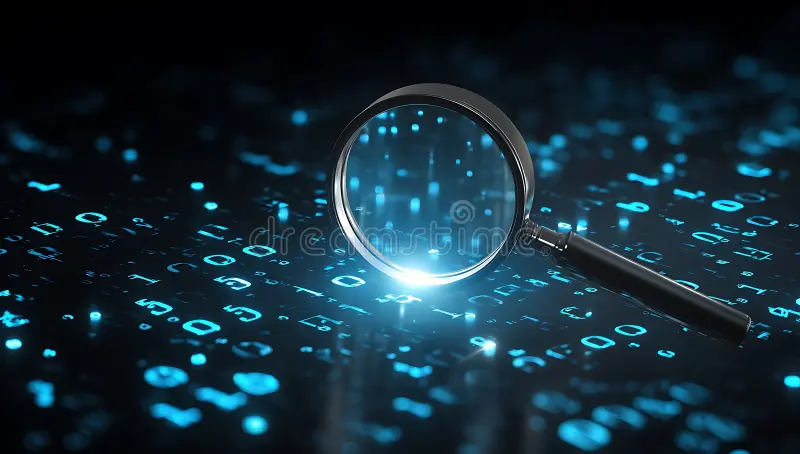
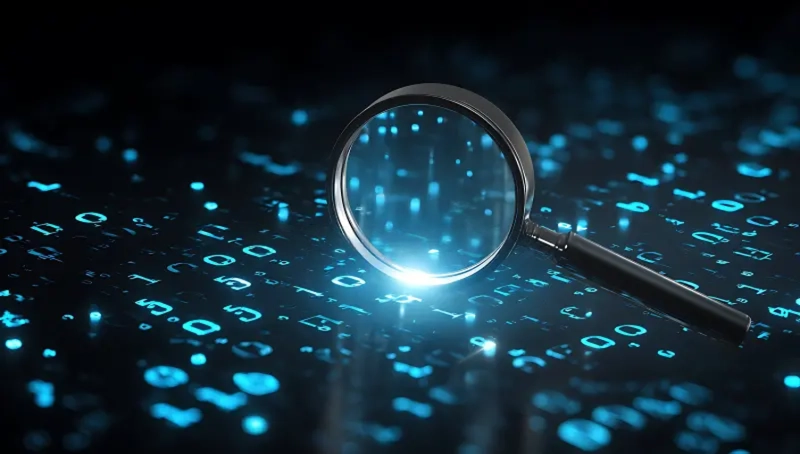
Merge pull request #1303 from DavidMaDNHS/main
New Update to CPTGuide

Pull request: New Update to CPTGuide
Mr. Mort, I have changed C2 level of the guide to make it an active learning guide with real code runners.

Changed region(s): [[0.3125, 0.4317, 0.6875, 0.5859], [0.0938, 0.4626, 0.125, 0.4934]]

diff --git a/hacks/cpt/C2-CPT.md b/hacks/cpt/C2-CPT.md
@@ -2,7 +2,7 @@
 layout: post
 microblog: True
 title: CPT Project Layout Builder
-description: A structured AP CSP CPT drafting tool for manually building components.
+description: A structured AP CSP CPT drafting tool to learn the foundations and building required components.
 author: David M, Sloane S
 permalink: /cpt/2
 breadcrumb: True
@@ -122,50 +122,106 @@ button.clear { background: #dc3545; color: #fff; }
 
   <div class="section">
     <h3>Full Program</h3>
-    {% include code-runner.html
-       runner_id="full_program_runner"
-       language="python"
-       code=""
-    %}
+    <p>This area can contain a full program combining the component examples below. For now, use the individual component boxes to learn and experiment.</p>
   </div>
 
   <div class="section">
     <h3>CPT Components</h3>
+    <p>Use the sections below to learn each CPT component. Each section explains the concept, gives a short learning tip, and includes an editable example you can run in your browser.</p>
 
-    <label for="inputField">Input</label>
-    {% include code-runner.html
-       runner_id="input_runner"
-       language="python"
-       code=""
-    %}
+    <div class="section" style="background:#0a0a0a;margin-top:12px;">
+      <h4>Input</h4>
+      <p><strong>What it is:</strong> data entered by the user (typing, clicking, selecting).</p>
+      <p><strong>How to learn:</strong> practice reading values from form fields and using them in your program.</p>
+      <label for="input_note">Your notes</label>
+      <textarea id="input_note" placeholder="Describe what 'Input' means..."></textarea>
+      <label>Example (edit &amp; Run)</label>
+      <input id="input_example_field" placeholder="Type something here" style="width:100%;padding:8px;margin-top:6px;border-radius:6px;border:1px solid #444;background:#000;color:#fff;">
+      <textarea id="input_example_code">// Read the value from the textbox and show it
+const v = document.getElementById('input_example_field').value;
+console.log('You entered:', v);
+</textarea>
+      <div>
+        <button onclick="runExample('input')">Run</button>
+        <pre id="input_output" class="output-content" style="padding:10px;border-radius:6px;border:1px solid #333;min-height:40px;"></pre>
+      </div>
+    </div>
 
-    <label for="outputField">Output</label>
-    {% include code-runner.html
-       runner_id="output_runner"
-       language="python"
-       code=""
-    %}
+    <div class="section" style="background:#0a0a0a;margin-top:12px;">
+      <h4>Output</h4>
+      <p><strong>What it is:</strong> results produced by the program (text, images, files).</p>
+      <p><strong>How to learn:</strong> practice formatting and presenting data clearly.</p>
+      <label for="output_note">Your notes</label>
+      <textarea id="output_note" placeholder="Describe what 'Output' means..."></textarea>
+      <label>Example (edit &amp; Run)</label>
+      <textarea id="output_example_code">// Compute a result and display it
+const result = 2 + 3;
+console.log('Result:', result);
+</textarea>
+      <div>
+        <button onclick="runExample('output')">Run</button>
+        <pre id="output_output" class="output-content" style="padding:10px;border-radius:6px;border:1px solid #333;min-height:40px;"></pre>
+      </div>
+    </div>
 
-    <label for="listField">List</label>
-    {% include code-runner.html
-       runner_id="list_runner"
-       language="python"
-       code=""
-    %}
+    <div class="section" style="background:#0a0a0a;margin-top:12px;">
+      <h4>List</h4>
+      <p><strong>What it is:</strong> a collection of items you can store and iterate over.</p>
+      <p><strong>How to learn:</strong> manipulate arrays/collections (add, remove, search, sort).</p>
+      <label for="list_note">Your notes</label>
+      <textarea id="list_note" placeholder="Describe what 'List' means..."></textarea>
+      <label>Example (edit &amp; Run)</label>
+      <textarea id="list_example_code">// Work with a list (array)
+const fruits = ['apple','banana'];
+fruits.push('cherry');
+console.log('Fruits now:', fruits);
+console.log('First item:', fruits[0]);
+</textarea>
+      <div>
+        <button onclick="runExample('list')">Run</button>
+        <pre id="list_output" class="output-content" style="padding:10px;border-radius:6px;border:1px solid #333;min-height:40px;"></pre>
+      </div>
+    </div>
 
-    <label for="procedureField">Procedure</label>
-    {% include code-runner.html
-       runner_id="procedure_runner"
-       language="python"
-       code=""
-    %}
+    <div class="section" style="background:#0a0a0a;margin-top:12px;">
+      <h4>Procedure</h4>
+      <p><strong>What it is:</strong> a reusable function with parameters.</p>
+      <p><strong>How to learn:</strong> write small functions, call them with different inputs, and reuse them.</p>
+      <label for="procedure_note">Your notes</label>
+      <textarea id="procedure_note" placeholder="Describe what 'Procedure' means..."></textarea>
+      <label>Example (edit &amp; Run)</label>
+      <textarea id="procedure_example_code">// Define a procedure (function) and call it
+function greet(name) {
+  return 'Hello, ' + name + '!';
+}
+console.log(greet('Student'));
+</textarea>
+      <div>
+        <button onclick="runExample('procedure')">Run</button>
+        <pre id="procedure_output" class="output-content" style="padding:10px;border-radius:6px;border:1px solid #333;min-height:40px;"></pre>
+      </div>
+    </div>
 
-    <label for="algorithmField">Algorithm</label>
-    {% include code-runner.html
-       runner_id="algorithm_runner"
-       language="python"
-       code=""
-    %}
+    <div class="section" style="background:#0a0a0a;margin-top:12px;">
+      <h4>Algorithm</h4>
+      <p><strong>What it is:</strong> step-by-step instructions using sequencing, selection, and iteration.</p>
+      <p><strong>How to learn:</strong> trace algorithms on paper, then implement them and test edge cases.</p>
+      <label for="algorithm_note">Your notes</label>
+      <textarea id="algorithm_note" placeholder="Describe what 'Algorithm' means..."></textarea>
+      <label>Example (edit &amp; Run)</label>
+      <textarea id="algorithm_example_code">// Simple algorithm: find the largest number
+const nums = [3,7,2,9,4];
+let max = nums[0];
+for (let i=1;i<nums.length;i++){
+  if (nums[i] > max) max = nums[i];
+}
+console.log('Max is', max);
+</textarea>
+      <div>
+        <button onclick="runExample('algorithm')">Run</button>
+        <pre id="algorithm_output" class="output-content" style="padding:10px;border-radius:6px;border:1px solid #333;min-height:40px;"></pre>
+      </div>
+    </div>
   </div>
 
   <div class="section">
@@ -184,15 +240,25 @@ button.clear { background: #dc3545; color: #fff; }
 <script>
 document.addEventListener("DOMContentLoaded", () => {
   const fields = {
-    idea: "ideaInput"
-    // Note: original component textareas removed; idea still supported.
+    idea: 'ideaInput',
+    input_note: 'input_note',
+    output_note: 'output_note',
+    list_note: 'list_note',
+    procedure_note: 'procedure_note',
+    algorithm_note: 'algorithm_note',
+    input_example_code: 'input_example_code',
+    output_example_code: 'output_example_code',
+    list_example_code: 'list_example_code',
+    procedure_example_code: 'procedure_example_code',
+    algorithm_example_code: 'algorithm_example_code',
+    input_example_value: 'input_example_field'
   };
 
   function getValues() {
     const data = {};
     for (const key in fields) {
       const el = document.getElementById(fields[key]);
-      data[key] = el ? el.value : "";
+      data[key] = el ? el.value : '';
     }
     return data;
   }
@@ -200,47 +266,64 @@ document.addEventListener("DOMContentLoaded", () => {
   function setValues(data) {
     for (const key in fields) {
       const el = document.getElementById(fields[key]);
-      if (el) el.value = data[key] || "";
+      if (!el) continue;
+      el.value = data[key] || '';
     }
   }
 
   function setStatus(msg) {
-    const s = document.getElementById("status");
+    const s = document.getElementById('status');
     if (s) s.innerText = msg;
   }
 
   window.saveCPT = function () {
     try {
-      localStorage.setItem("cpt_data", JSON.stringify(getValues()));
-      setStatus("Saved successfully.");
+      localStorage.setItem('cpt_data', JSON.stringify(getValues()));
+      setStatus('Saved successfully.');
     } catch (e) {
-      setStatus("Save failed (localStorage not available).");
+      setStatus('Save failed (localStorage not available).');
     }
   };
 
   window.loadCPT = function () {
     try {
-      const raw = localStorage.getItem("cpt_data");
-      if (!raw) {
-        setStatus("No saved data.");
-        return;
-      }
+      const raw = localStorage.getItem('cpt_data');
+      if (!raw) { setStatus('No saved data.'); return; }
       const data = JSON.parse(raw);
       setValues(data);
-      setStatus("Loaded successfully.");
+      setStatus('Loaded successfully.');
     } catch (e) {
-      setStatus("Load failed (localStorage not available).");
+      setStatus('Load failed (localStorage not available).');
     }
   };
 
   window.clearCPT = function () {
-    try {
-      localStorage.removeItem("cpt_data");
-    } catch (e) {
-      // ignore if not available
-    }
+    try { localStorage.removeItem('cpt_data'); } catch (e) { }
     setValues({});
-    setStatus("Cleared.");
+    setStatus('Cleared.');
+  };
+
+  window.runExample = function(kind) {
+    const codeId = kind + '_example_code';
+    const outId = kind + '_output';
+    const codeEl = document.getElementById(codeId);
+    const outEl = document.getElementById(outId);
+    if (!codeEl || !outEl) return;
+    outEl.textContent = '';
+    const logs = [];
+    const originalLog = console.log;
+    try {
+      console.log = function(...args) {
+        logs.push(args.map(a => (typeof a === 'object' ? JSON.stringify(a) : String(a))).join(' '));
+      };
+      const fn = new Function(codeEl.value);
+      fn();
+    } catch (e) {
+      logs.push('Error: ' + (e && e.message ? e.message : String(e)));
+    } finally {
+      console.log = originalLog;
+      outEl.textContent = logs.join('\n');
+    }
   };
 });
 </script>

diff --git a/hacks/cpt/A-navigation-CPT.md b/hacks/cpt/A-navigation-CPT.md
@@ -17,13 +17,13 @@ lxdData:
       Description: "Explore CPT requirements and simply ideas to start the project."
       Lessons: "/cpt/1"
       Image: "/images/cpt/c1.webp"
-    - Title: "C2: Draft the CPT Project Layout"
+    - Title: "C2: Learn and draft the Foundations"
       Genre: "Drafting"
       Level: 2
       Description: "Fully understand Collegeboard CPT requirements and draft the project to be polished later"
       Lessons: "/cpt/2"
       Image: "/images/cpt/c2.jpg"
-    - Title: "C3: Trace the Program"
+    - Title: "C3: Trace the CPT Project Layout"
       Genre: "Practice"
       Level: 3
       Description: "Trace and explain the purpose and phases of the project to be used to practice answer AP exam questions later about the CPT"